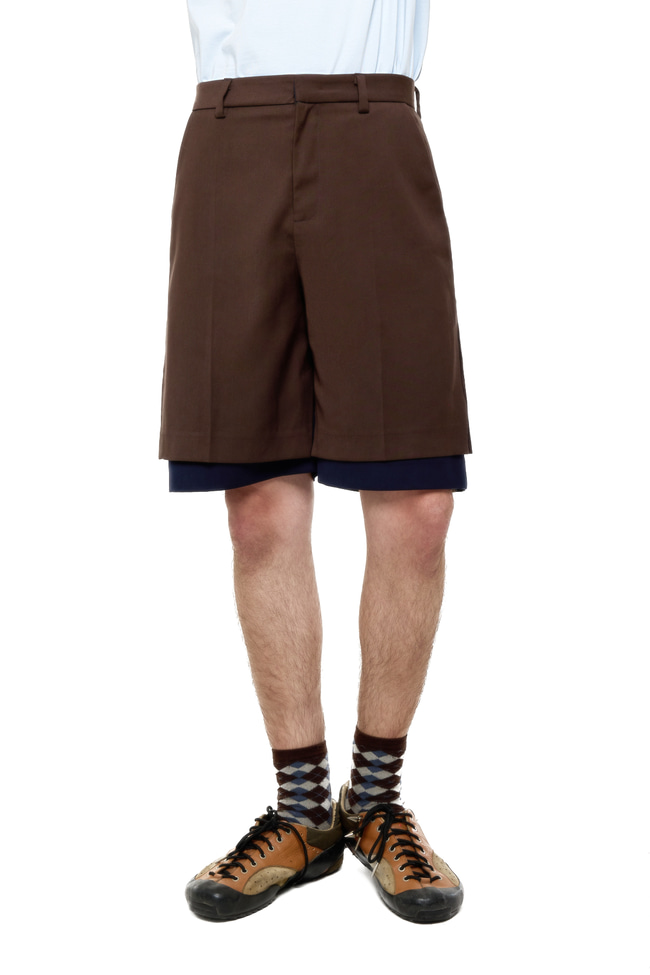
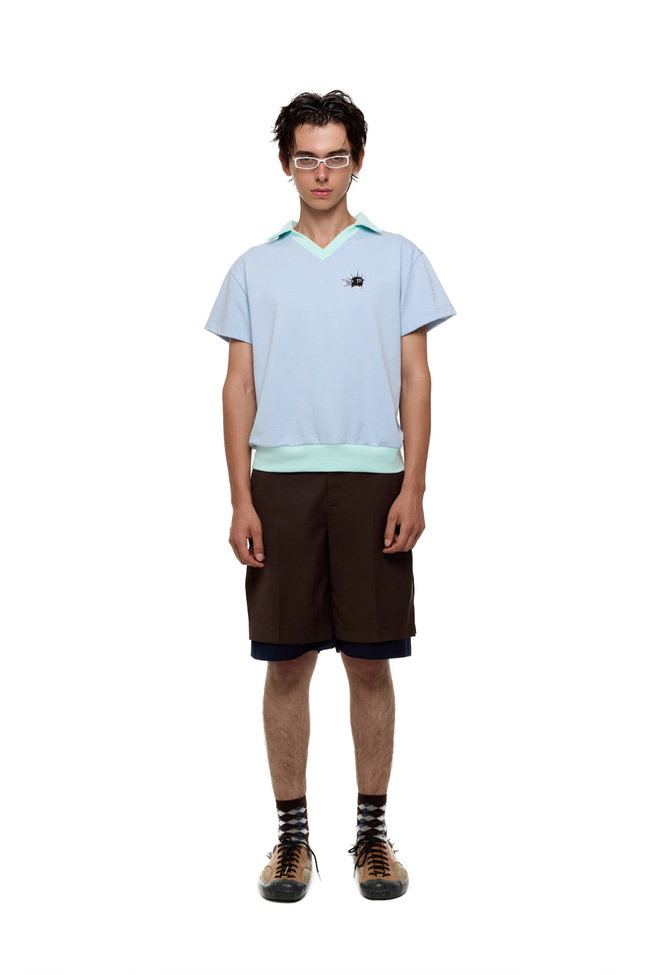
Mock up Data

diff --git a/src/data/products.js b/src/data/products.js
@@ -1,10 +1,70 @@
-const products = [
-    {
-        name: "",
-        price: 0,
-        category: "",
-        gender: "",
-        images: [],
-        collection: "haunteddollhouse",
-    }
-]
+export function getProducts() {
+    return [
+        {   
+            id: 1,
+            name: "Double Layer Jersey Dress",
+            price: 1990,
+            images: {
+                main: "/assets/image/products/p001/main.jpg",
+                front: "/assets/image/products/p001/front.jpg",
+                back: "/assets/image/products/p001/back.jpg",
+            },
+            collectionSlug: "haunted-dollhouse"
+        },
+        {   
+            id: 2,
+            name: "Double Layer Shorts",
+            price: 2490,
+            images: {
+                main: "/assets/image/products/p002/main.jpg",
+                front: "/assets/image/products/p002/front.jpg",
+                back: "/assets/image/products/p002/back.jpg",
+            },
+            collectionSlug: "haunted-dollhouse"
+        },
+        {   
+            id: 3,
+            name: "Peekaboo Knit Sweather",
+            price: 3490,
+            images: {
+                main: "/assets/image/products/p003/main.jpg",
+                front: "/assets/image/products/p003/front.jpg",
+                back: "/assets/image/products/p003/back.jpg",
+            },
+            collectionSlug: "haunted-dollhouse"
+        },
+        {   
+            id: 4,
+            name: "Buttons Printed Cap",
+            price: 1290,
+            images: {
+                main: "/assets/image/products/p004/main.jpg",
+                front: "/assets/image/products/p004/front.jpg",
+                back: "/assets/image/products/p004/back.jpg",
+            },
+            collectionSlug: "haunted-dollhouse"
+        },
+        {   
+            id: 5,
+            name: "Doll Top",
+            price: 1290,
+            images: {
+                main: "/assets/image/products/p005/main.jpg",
+                front: "/assets/image/products/p005/front.jpg",
+                back: "/assets/image/products/p005/back.jpg",
+            },
+            collectionSlug: "haunted-dollhouse"
+        },
+        {   
+            id: 6,
+            name: "Double Collar Shirt",
+            price: 2290,
+            images: {
+                main: "/assets/image/products/p006/main.jpg",
+                front: "/assets/image/products/p006/front.jpg",
+                back: "/assets/image/products/p006/back.jpg",
+            },
+            collectionSlug: "haunted-dollhouse"
+        }
+    ]
+}

diff --git a/src/ui/productCard.js b/src/ui/productCard.js
@@ -1,6 +1,4 @@
 export function renderProductCard(product) {
-    const slider = document.querySelector(".collection__slider");
-    slider.innerHTML = "";
 
     // Create Elements //
     const li = document.createElement("li");
@@ -30,19 +28,19 @@ export function renderProductCard(product) {
     
     // Set Attribute // 
     imgWrapper.setAttribute("href", "#");
-    img.setAttribute("src", "/assets/image/products/p005/main.jpg");
-    img.setAttribute("alt", "");
+    img.setAttribute("src", product.images.main);
+    img.setAttribute("alt", product.name);
     nameWrapper.setAttribute("href", "#");
     iconWrapper.setAttribute("href", "#");
-    iconWrapper.setAttribute("aria-label", "");
-    price.setAttribute("data-price", 1790);
+    iconWrapper.setAttribute("aria-label", "favourite");
+    price.setAttribute("data-price", product.price);
 
     // Set Data // 
     icon.dataset.lucide = "heart";
 
     // Text Content //
-    name.textContent = "Double Layer Jersey Dress";
-    price.textContent = "1,790 THB";
+    name.textContent = product.name;
+    price.textContent = `${product.price} THB`;
 
     // Appemd them //
     imgWrapper.append(img);
@@ -52,5 +50,5 @@ export function renderProductCard(product) {
     contentContainner.append(contentWrapper, price);
     card.append(imgWrapper, contentContainner);
     li.append(card);
-    slider.appendChild(li);
+    return li
 }

diff --git a/src/ui/productCollection.js b/src/ui/productCollection.js
@@ -1,5 +1,3 @@
-import { renderProductCard } from "./productCard.js"
-
 export function renderCollection(collectionData) {
     const collectionList = document.querySelector(".collection-list");
     collectionList.innerHTML = "";
@@ -25,7 +23,7 @@ export function renderCollection(collectionData) {
     video.loop = true;
     video.autoplay = true;
     video.playsInline = true;
-    video.play()
+    // video.play()
 
     // video.setAttribute("autoplay");
     // video.setAttribute("muted");
@@ -38,17 +36,5 @@ export function renderCollection(collectionData) {
     // Append them //
     videoWrapper.append(video,btn);
     collection.append(videoWrapper, collectionSlider);
-    collectionList.appendChild(collection);
-    renderProductCard()
+    collectionList.append(collection);
 }
-
-            // <div class="collection-list">
-            //     <article class="collection">
-
-            //         <a href="#" class="collection__video-wrap">
-            //             <video src="/assets/video/haunteddollhouse.mp4" class="collection__video" autoplay muted loop playsinline></video>
-            //             <span class="btn btn--muted">Buy Now</span>
-            //         </a>
-
-            //     </article>
-            // </div>

diff --git a/src/data/collections.js b/src/data/collections.js
@@ -1,0 +1,40 @@
+export function getCollectionData() {
+    return [
+        {
+            id: "col-001",
+            name: "Haunted Dollhouse",
+            slug: "haunted-dollhouse",
+            video: "/assets/video/haunteddollhouse.mp4",
+        },
+        {
+            id: "col-001",
+            name: "Haunted Dollhouse",
+            slug: "haunted-dollhouse",
+            video: "/assets/video/haunteddollhouse.mp4",
+        },
+        {
+            id: "col-001",
+            name: "Haunted Dollhouse",
+            slug: "haunted-dollhouse",
+            video: "/assets/video/haunteddollhouse.mp4",
+        }
+    ]
+}
+
+export function groupProductsByCollection(products) {  
+    return products.reduce((acc, product) => {
+        const key = product.collectionSlug;
+        acc[key] ??= []
+        acc[key].push(product)
+        return acc    
+    }, {})
+}
+
+export function getCollection(products, collections) {
+    const groupedProducts = groupProductsByCollection(products);
+
+    return collections.map(col => ({
+        ...col,
+        products: groupedProducts[col.slug] ?? []
+    }))
+}

diff --git a/src/app.js b/src/app.js
@@ -1,9 +1,22 @@
 import { renderCollection } from "./ui/productCollection.js"
 import { renderProductCard } from "./ui/productCard.js"
 import { renderCategory } from "./ui/productCategory.js"
+import { getProducts } from "./data/products.js"
+import { getCollectionData,
+         getCollection } from "./data/collections.js"
+
+const products = getProducts()
+const collectionData = getCollectionData()
+console.log(getCollection(products, collectionData))
 
 window.addEventListener("keyup", (e) => {
     if(e.key !== "Enter") { return };
-    renderCollection()
-    renderCategory()
+
+    const slider = document.querySelector(".collection__slider");
+
+    products.forEach(product => {
+        const card = renderProductCard(product)
+        slider.append(card)
+    })
 })
+

diff --git a/css/layout/main.css b/css/layout/main.css
@@ -47,6 +47,8 @@
     width: 100%;
     min-width: 0;
 
+    list-style: none;
+
     overflow-x: auto;
     overflow-y: hidden;
 
